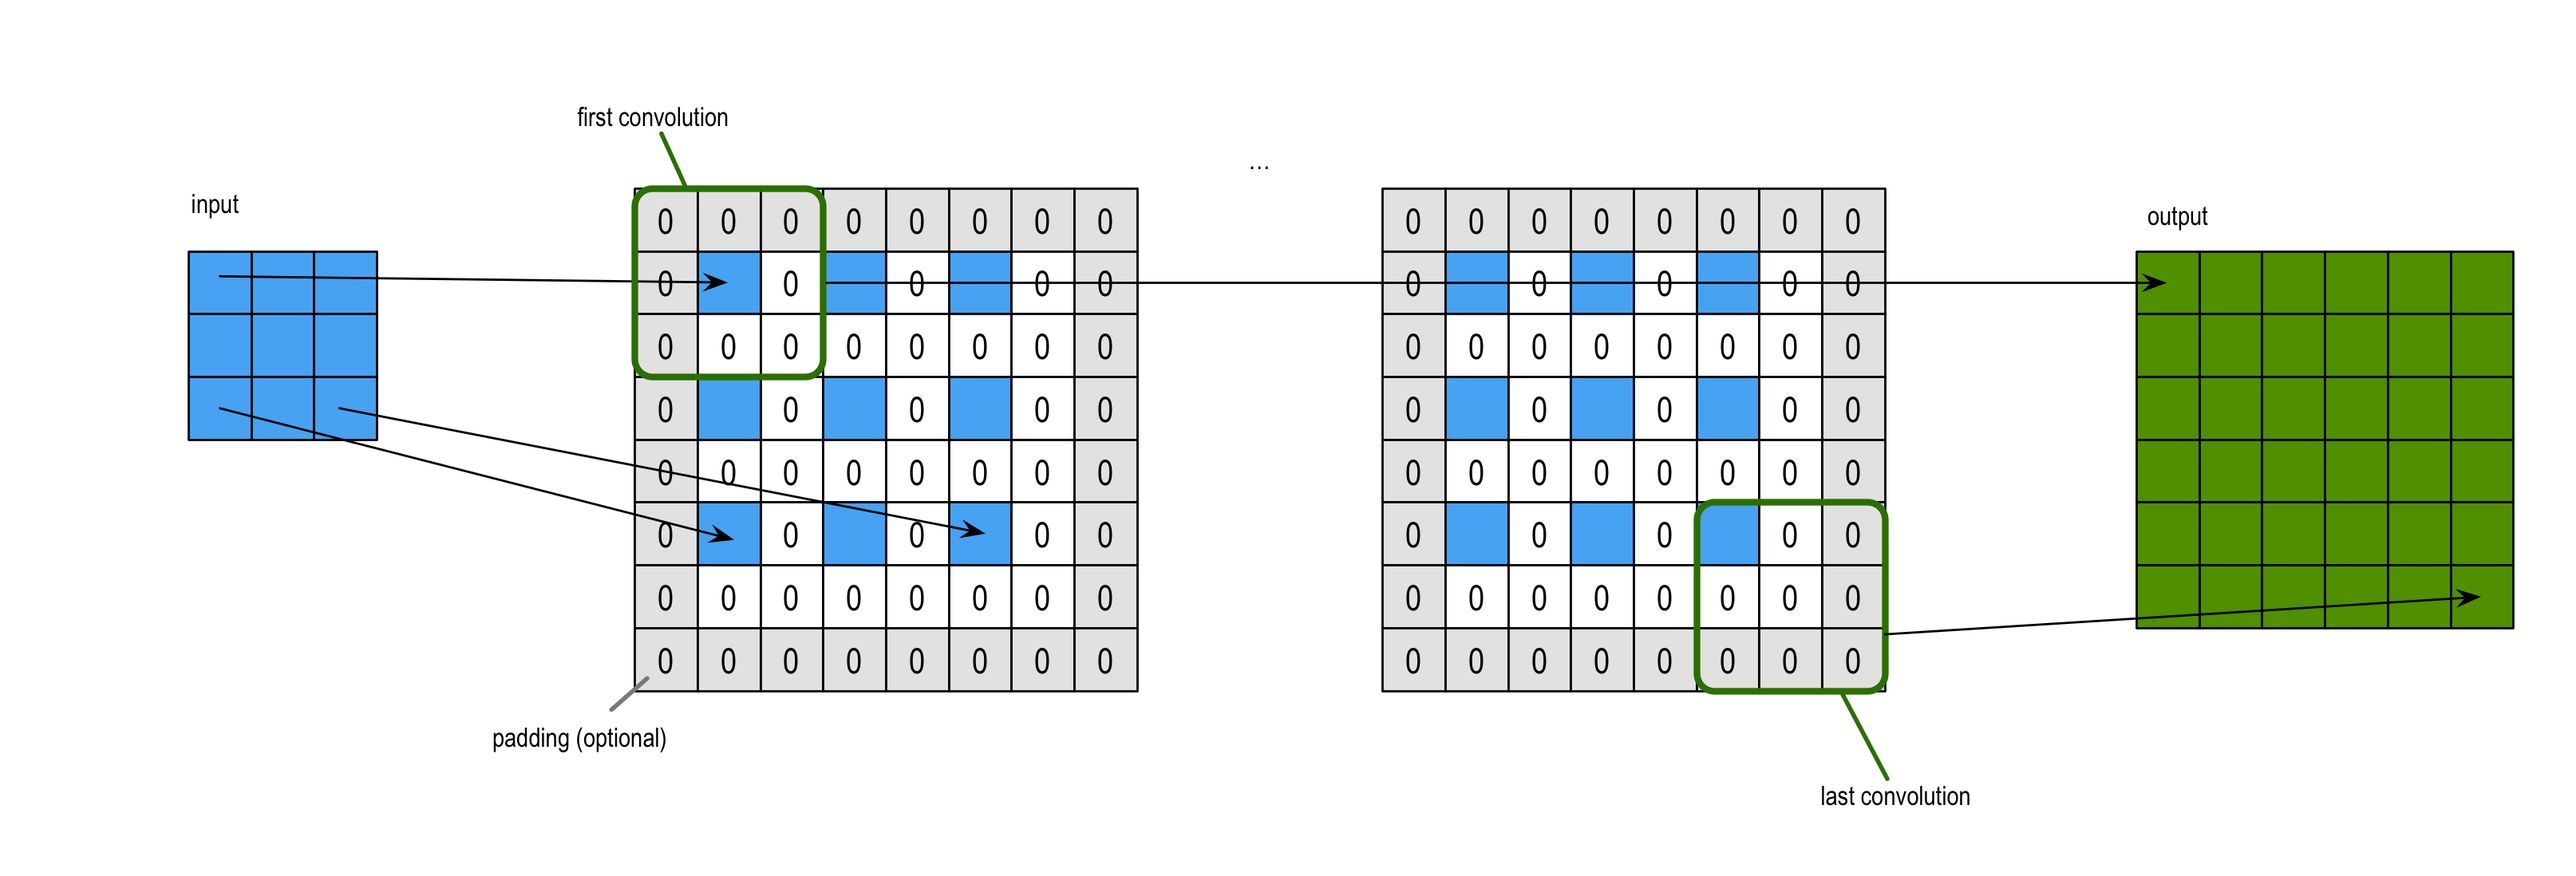
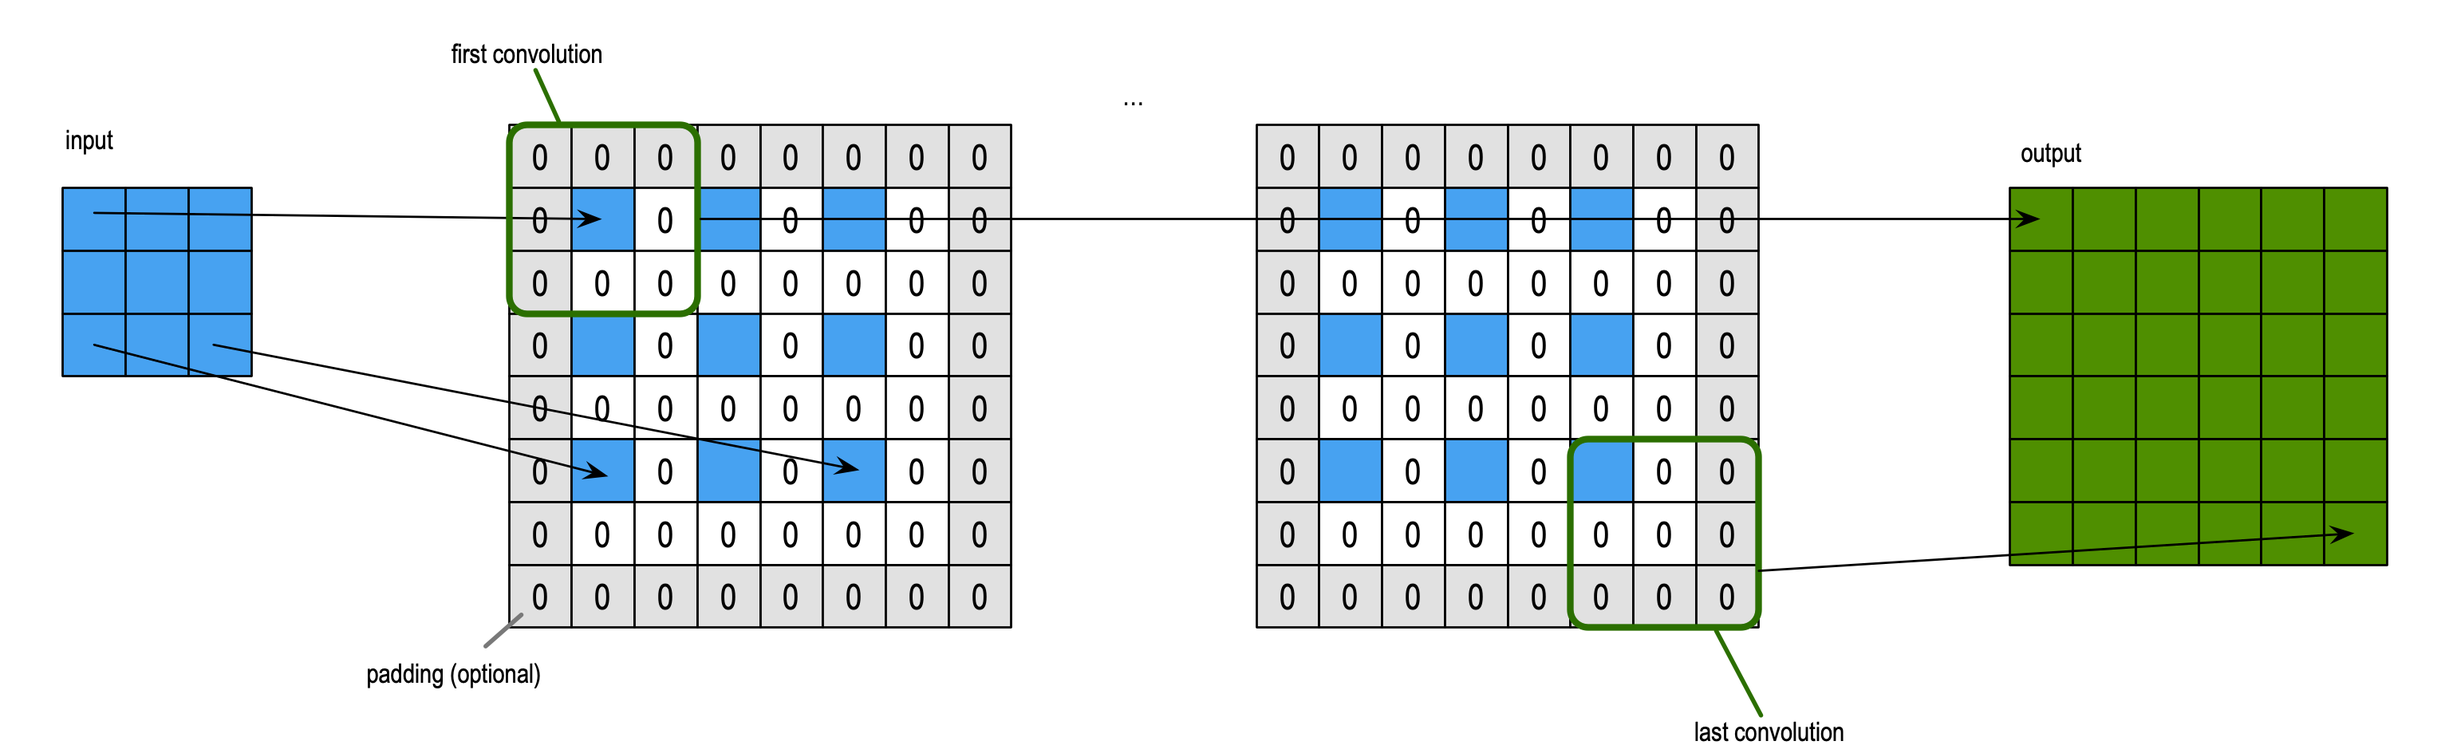
Update README

diff --git a/README.md b/README.md
@@ -1,7 +1,7 @@
 # AI8X Model Training and Quantization
 # AI8X Network Loader and RTL Simulation Generator
 
-_10/30/2019_
+_11/04/2019_
 
 _Open this file in a markdown enabled viewer, for example Typora (http://typora.io) or Visual Studio Code 
 (https://code.visualstudio.com). See https://github.com/adam-p/markdown-here/wiki/Markdown-Cheatsheet for a description of Markdown._
@@ -51,6 +51,7 @@ This software consists of two related projects:
   - [Limitations of AI84 Networks](#limitations-of-ai84-networks)
   - [Limitations of AI85 Networks](#limitations-of-ai85-networks)
   - [Fully Connected (Linear) Layers](#fully-connected-linear-layers)
+  - [Upsampling (Fractionally-Strided 2D Convolutions)](#upsampling-fractionally-strided-2d-convolutions)
 - [Model Training and Quantization](#model-training-and-quantization)
   - [Quantization](#quantization)
   - [Alternative Quantization Approaches](#alternative-quantization-approaches)
@@ -77,6 +78,7 @@ This software consists of two related projects:
       - [`operands` (Optional)](#operands-optional)
       - [`activate` (Optional)](#activate-optional)
       - [`quantization` (Optional)](#quantization-optional)
+      - [`output_shift` (Optional)](#outputshift-optional)
       - [`kernel_size` (Optional)](#kernelsize-optional)
       - [`stride` (Optional)](#stride-optional)
       - [`pad` (Optional)](#pad-optional)
@@ -350,14 +352,15 @@ The AI85/AI86 accelerator has four dedicated FIFOs connected to processors 0, 16
   * There are 16 instances of 16 KB data memory. Any data channel (input, intermediate, or output) must completely fit into one memory instance. This limits the first-layer input to 128×128 pixels per channel in the CHW format. However, when using more than one input channel, the HWC format may be preferred, and all layer output are in HWC format as well. In those cases, it is required that four channels fit into a single memory instance -- or 64×64 pixels per channel. Note that the first layer commonly creates a wide expansion (i.e., large number of output channels) that needs to fit into data memory, so the input size limit is mostly theoretical.
 * AI85:
   * The maximum number of layers is 32 (pooling and element-wise layers do not count).
-  * The maximum number of input or output channels in any layer is 512 each.
+  * The maximum number of input channels in any layer is 1024 each.
+  * The maximum number of output channels in any layer is 512 each.
   * The weight memory supports up to 768 * 64 3×3 Q7 kernels (see [Number Format](#Number-Format)).
     When using 1-, 2- or 4 bit weights, the capacity increases accordingly.
     When using more than 64 input or output channels, weight memory is shared and effective capacity decreases.
     Weights must be arranged according to specific rules detailed below.
   * There are 16 instances of 32 KB data memory. When not using streaming mode, any data channel (input, intermediate, or output) must completely fit into one memory instance. This limits the first-layer input to 181×181pixels per channel in the CHW format. However, when using more than one input channel, the HWC format may be preferred, and all layer output are in HWC format as well. In those cases, it is required that four channels fit into a single memory instance -- or 91×90 pixels per channel.
     Note that the first layer commonly creates a wide expansion (i.e., large number of output channels) that needs to fit into data memory, so the input size limit is mostly theoretical.
-  * When using streaming, the data sizes are limited to 512×512, subject to available TRAM. Streaming is limited to 8 layers or less, and to four FIFOs (up to 4 input channels in CHW and up to 16 channels in HWC format).
+  * When using streaming, the data sizes are limited to 1023×1023, subject to available TRAM. Streaming is limited to 8 layers or less, and to four FIFOs (up to 4 input channels in CHW and up to 16 channels in HWC format).
 
 ### Number Format
 
@@ -586,7 +589,7 @@ The AI84 hardware does not support arbitrary network parameters. Specifically,
   * Average pooling does not support more than 2048 bits in the accumulator. This translates to a 4×4 pooling window if activation was used on the prior layer, 3×3 otherwise. Additionally, average pooling is currently implemented as a `floor()` operation. Since there is also a quantization step at the output of the average pooling, it may not perform as intended (for example, a 2×2 `AvgPool2d` of `[[0, 0], [0, 3]]` will return `0`).
   * Pooling window sizes must be even numbers, and have equal H and W dimensions.
 * The number of input or output channels must not exceed 64.
-* The number of layers must not exceed 32.
+* The number of layers must not exceed 32 (where pooling does not add to the count).
 * The maximum dimension (number of rows or columns) for input or output data is 256.
 * Overall weight storage is limited to 64*128 3×3 kernels. However, weights must be arranged in a certain order, see above.
 * The hardware supports 1D and 2D convolution layers. For convenience, a single final fully connected layer with 8-bit inputs/weights/bias, and 16-bit output is supported in software, as well as a software `SoftMax` operator.
@@ -599,16 +602,27 @@ With the exception of weight storage, and bias use, most of these limitations wi
 
 The AI85 hardware does not support arbitrary network parameters. Specifically,
 * Dilation, groups, and batch normalization are not supported.
+
 * `Conv2d`:
   * Kernel sizes must be 1×1 or 3×3.
   * Padding can be 0, 1, or 2.
   * Stride is fixed to 1.
+  
 * `Conv1d`:
   * Kernel sizes must be 1 through 9.
   * Padding can be 0, 1, or 2.
   * Stride is fixed to 1.
+  
+* `ConvTranspose2d`:
+
+  * Kernel sizes must be 3×3.
+  * Padding can be 0, 1, or 2.
+  * Stride is fixed to 2.
+
 * A programmable layer-specific shift operator is available at the output of a convolution.
+
 * The only supported activation functions are `ReLU` and `Abs`.
+
 * Pooling:
   * Both max pooling and average pooling are available, with or without convolution.
   
@@ -622,27 +636,43 @@ The AI85 hardware does not support arbitrary network parameters. Specifically,
   
     * _floor:_ Since there is a quantization step at the output of the average pooling, a 2×2 `AvgPool2d` of `[[0, 0], [0, 3]]` will return $\lfloor \frac{3}{4} \rfloor = 0$.
     * _rounding:_ 2×2 `AvgPool2d` of `[[0, 0], [0, 3]]` will return $\lfloor \frac{3}{4} \rceil = 1$.
-* The number of input or output channels must not exceed 512.
-* The number of layers must not exceed 32.
-* The maximum dimension (number of rows or columns) for input or output data is 256.
+  
+* The number of input channels must not exceed 1024.
+
+* The number of output channels must not exceed 512.
+
+* The number of layers must not exceed 32 (where pooling and element-wise operations do not add to the count).
+
+* The maximum dimension (number of rows or columns) for input or output data is 1023.
   
   * When using data greater than 90×91, `streaming` mode must be used.
+  
 * Overall weight storage is limited to 64*768 3×3 8-bit kernels (and proportionally more when using smaller weights, or smaller kernels). However, weights must be arranged in a certain order, see above.
-* The hardware supports 1D and 2D convolution layers, element-wise addition, subtraction, binary OR, binary XOR as well as fully connected layers (`Linear`) (implemented using 1×1 convolutions on 1×1 data):
-  * The maximum number of input neurons is 512, and the maximum number of output neurons is 512 (8 each per processor used).
+
+* The hardware supports 1D and 2D convolution layers, 2D transposed convolution layers (upsampling), element-wise addition, subtraction, binary OR, binary XOR as well as fully connected layers (`Linear`) (implemented using 1×1 convolutions on 1×1 data):
+  * The maximum number of input neurons is 1024, and the maximum number of output neurons is 512 (8 each per processor used).
   *  `Flatten` functionality is available to convert 2D input data for use by fully connected layers.
   *  Element-wise operators support from 2 up to 16 inputs.
   *  Element-wise operators can be chained in-flight with pooling and 2D convolution (where the order of pooling and element-wise operations can be swapped).
   * For convenience, a `SoftMax` operator is supported in software.
+  
 * Since the internal network format is HWC in groups of four channels, output concatenation only works properly when all components of the concatenation other than the last have multiples of four channels.
 
 ### Fully Connected (Linear) Layers
 
-On AI85/AI85, m×n fully connected layers can be realized in hardware by “flattening” 2D input data into m channels of 1×1 input data. The hardware will produce n channels of 1×1 output data. When chaining multiple fully connected layers, the flattening step is omitted. The following picture shows 2D data, the equivalent flattened 1D data, and the output.
+On AI85/AI86, m×n fully connected layers can be realized in hardware by “flattening” 2D input data into m channels of 1×1 input data. The hardware will produce n channels of 1×1 output data. When chaining multiple fully connected layers, the flattening step is omitted. The following picture shows 2D data, the equivalent flattened 1D data, and the output.
 
 For AI85, both m and n must not be larger than 16.
 
 ![MLP](docs/MLP.png)
+
+### Upsampling (Fractionally-Strided 2D Convolutions)
+
+On AI85/AI86, the hardware supports 2D upsampling (“fractionally-strided convolutions”, sometimes called “deconvolution” even though this is not strictly mathematically correct). The PyTorch equivalent is `ConvTranspose2D` with a stride of 2.
+
+The example shows a fractionally-strided convolution with a stride of 2, pad of 1, and a 3×3 kernel. This “upsamples” the input dimensions from 3×3 to output dimensions of 6×6.
+
+![fractionallystrided](docs/fractionallystrided.png)
 
 ---
 
@@ -855,12 +885,13 @@ The default is `Conv2d`. AI84 only supports `Conv1d` and `Conv2d`.
 | :------------------------ | :----------------------------------------------------------- |
 | `Conv1d`                  | 1D convolution over an input composed of several input planes |
 | `Conv2d` (default)        | 2D convolution over an input composed of several input planes |
+| `ConvTranspose2d`         | 2D transposed convolution (upsampling) over an input composed of several input planes |
 | `None` or `Passthrough`   | No operation                                                 |
 | `Linear` or `FC` or `MLP` | Linear transformation to the incoming data                   |
 | `Add`                     | Element-wise addition                                        |
 | `Sub`                     | Element-wise subtraction                                     |
 | `Xor`                     | Element-wise binary XOR                                      |
-| `Or`                      | Element-wise binary OR                                      |
+| `Or`                      | Element-wise binary OR                                       |
 
 Element-wise operations default to two operands. This can be changed using the `operands` key.
 
@@ -1075,18 +1106,19 @@ The `ai84ize.py` quantization tool and the `cnn-gen.py` network generator both h
 The `--ai85` option enables:
 * Bias shift << 7.
 * Per-layer support for 1, 2 and 4-bit weight sizes in addition to 8-bit weights (this is supported using the `quantization` keyword in the configuration file, and the configuration file can also be read by the quantization tool).
-* A shift on the output of the convolution that allows for better use of the entire range of weight bits.
+* A programmable shift on the output of the convolution that allows for better use of the entire range of weight bits (`output_shift`).
 * Support for many more pooling sizes and pooling strides, and larger limits for average pooling.
 * Support for pooling without convolution (passthrough mode), and optional rounding for average pooling.
 * 1D convolutions.
 * 1×1 kernels for 2D convolutions.
+* Transposed 2D convolutions (upsampling).
 * Data “flattening”, allowing the use of 1×1 kernels to emulate fully connected layers.
 * In-flight element-wise addition, subtraction, and binary or/xor.
 * Support for more weight memory, and more input and output channels.
 * Support for non-square data and non-square pooling kernels.
-* Support for 32-bit Q25.7 data output for last layer when not using ReLU/Abs.
+* Support for 32-bit Q25.7 data output for last layer when not using activation.
 * Support for streaming mode with FIFOs to allow for larger data sizes.
-* Support for absolute value (Abs) activation.
+* Support for absolute value (`Abs`) activation.
 
 ---
 
